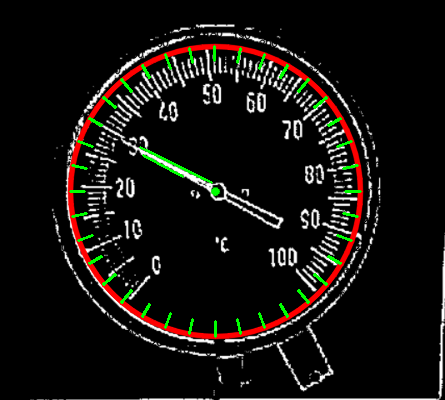
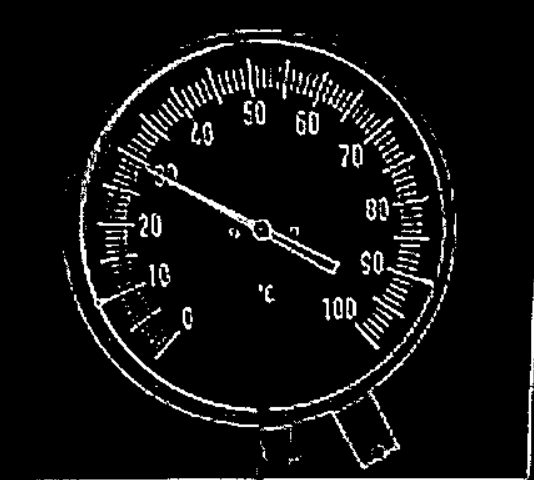
update

diff --git a/templates/index.html b/templates/index.html
@@ -134,7 +134,7 @@
         <div class='result_title'><b>Kết quả nhận diện</b></div>
         <div class='result_id'>{{ msg }}</div>
         {% if res != 0 %}
-        <div class='result_id'>Nhiệt độ: <span class='result_id_number'>{{ res }} </span></div>
+        <div class='result_id'>Nhiệt độ: <span class='result_id_number'>{{ res }} +- 2</span></div>
         {% endif %}
         {% if user_image %}
         <img style="max-width:560px; border-radius:1rem" src="{{ url_for('static', filename=user_image) }}?{{ rand }}"

diff --git a/detect.py b/detect.py
@@ -4,49 +4,41 @@ import matplotlib.pyplot as plt
 import filter
 
 # The Specifications of clock
-min_angle = 39
+min_angle = 38
 max_angle = 316
 min_value = 0
 max_value = 100                     
 
-def determine_avg_circles(circles, b):
-    avg_x=0
-    avg_y=0
-    avg_r=0
-    for i in range(b):
-        #optional - average for multiple circles (can happen when a gauge is at a slight angle)
-        avg_x = avg_x + circles[0][i][0]
-        avg_y = avg_y + circles[0][i][1]
-        avg_r = avg_r + circles[0][i][2]
-    avg_x = int(avg_x/(b))
-    avg_y = int(avg_y/(b))
-    avg_r = int(avg_r/(b))
-    return avg_x, avg_y, avg_r
+def determine_avg_circles(circles):
+    return np.mean(circles, axis=1, dtype=np.int32).reshape((3,))
 
 def compute_distance(x1, y1, x2, y2):
     return np.sqrt((x2 - x1)**2 + (y2 - y1)**2)
 
-def calibrate_gauge(path):
-    clock = cv.imread(path)
-    height, width = clock.shape[:2]
+def calibrate_gauge(image):
+    height, width = image.shape[:2]
+
+    residual = int((width - height) / 2) if width > height else 0
+    image = image[:, residual:width-residual] # crop image to make width and height equal
+
+    height, width = image.shape[:2]
+    
     ratio = 400/height
     height, width = int(height*ratio), int(width*ratio)
-    clock = cv.resize(clock, (width, height))
+    image = cv.resize(image, (width, height))
 
-    img = filter.implement_filter(clock, 5)
-    cv.imwrite('result_image/filter.png', img)
+    img = filter.implement_filter(image, 5)
 
-    circles = cv.HoughCircles(img,cv.HOUGH_GRADIENT, 1, 20, param1=100, param2=50, minRadius=int(height*0.35), maxRadius=int(height*0.5))
+    circles = cv.HoughCircles(img,cv.HOUGH_GRADIENT, 1, 35, param2=35, minRadius=int(height*0.35), maxRadius=int(height*0.5))
     if isinstance(circles, type(None)):
         return
 
     circles = np.uint16(np.around(circles))
-    a, b, c = circles.shape
-    x, y, r = determine_avg_circles(circles, b)
+    x, y, r = determine_avg_circles(circles)
 
     # draw center and circle
-    cv.circle(clock, (x, y), r, (0, 0, 255), 3, cv.LINE_AA)  # draw circle
-    cv.circle(clock, (x, y), 2, (0, 255, 0), 3, cv.LINE_AA)  # draw center of circle
+    cv.circle(image, (x, y), r, (0, 0, 255), 3, cv.LINE_AA)  # draw circle
+    cv.circle(image, (x, y), 2, (0, 255, 0), 3, cv.LINE_AA)  # draw center of circle
 
 
     separation = 10.0 #in degrees
@@ -73,21 +65,22 @@ def calibrate_gauge(path):
 
     #add the lines and labels to the image
     for i in range(0,interval):
-        cv.line(clock, (int(p1[i][0]), int(p1[i][1])), (int(p2[i][0]), int(p2[i][1])),(0, 255, 0), 2)
-        cv.putText(clock, '%s' %(int(i*separation)), (int(p_text[i][0]), int(p_text[i][1])), cv.FONT_HERSHEY_SIMPLEX, 0.3,(0,0,0),1,cv.LINE_AA)
+        cv.line(image, (int(p1[i][0]), int(p1[i][1])), (int(p2[i][0]), int(p2[i][1])),(0, 255, 0), 2)
+        cv.putText(image, '%s' %(int(i*separation)), (int(p_text[i][0]), int(p_text[i][1])), cv.FONT_HERSHEY_SIMPLEX, 0.3,(0,0,0),1,cv.LINE_AA)
 
-    # plt.imshow(clock)
-    # plt.show()
+    return x, y, r, image
 
-    return x, y, r, clock
+def get_current_value(image, circle, min_angle, max_angle, min_value, max_value, x, y, r):
+    height, width = image.shape[:2]
 
-def get_current_value(path, clock, min_angle, max_angle, min_value, max_value, x, y, r):
-    img = cv.imread(path)
+    residual = int((width - height) / 2) if width > height else 0
+    image = image[:, residual:width-residual] # crop image to make width and height equal
 
-    height, width = img.shape[:2]
+    height, width = image.shape[:2]
+
     ratio = 400/height
     height, width = int(height*ratio), int(width*ratio)
-    img = cv.resize(img, (width, height))
+    img = cv.resize(image, (width, height))
 
     dst = filter.implement_filter(img, 5)
 
@@ -111,7 +104,6 @@ def get_current_value(path, clock, min_angle, max_angle, min_value, max_value, x
                 diff1, diff2 = diff2, diff1
                 
             if (((diff1<diff1UpperBound*r) and (diff1>diff1LowerBound*r) and (diff2<diff2UpperBound*r)) and (diff2>diff2LowerBound*r)):
-                # add to final list
                 final_line_list.append([x1, y1, x2, y2])
                 
     res = []
@@ -128,14 +120,14 @@ def get_current_value(path, clock, min_angle, max_angle, min_value, max_value, x
         
         degree = np.arctan(np.divide(float(y_angle), float(x_angle)))
         degree = np.rad2deg(degree)
-        final_angle = 0
+
         if x_angle > 0 and y_angle > 0:  #in quadrant I
             final_angle = float(270 - degree)
-        if x_angle < 0 and y_angle > 0:  #in quadrant II
+        elif x_angle < 0 and y_angle > 0:  #in quadrant II
             final_angle = float(90 - degree)
-        if x_angle < 0 and y_angle < 0:  #in quadrant III
+        elif x_angle < 0 and y_angle < 0:  #in quadrant III
             final_angle = float(90 - degree)
-        if x_angle > 0 and y_angle < 0:  #in quadrant IV
+        elif x_angle > 0 and y_angle < 0:  #in quadrant IV
             final_angle = float(270 - degree)
         
         value = ((max_angle-final_angle)/(max_angle-min_angle)) * min_value + ((final_angle-min_angle)/(max_angle-min_angle)) * max_value
@@ -143,15 +135,16 @@ def get_current_value(path, clock, min_angle, max_angle, min_value, max_value, x
         res.append(value)
 
     for x1, y1, x2, y2 in final_line_list:
-        cv.line(clock, (x1, y1), (x2, y2),(0, 255, 0), 2)
+        cv.line(circle, (x1, y1), (x2, y2),(0, 255, 0), 2)
     
-    cv.imwrite('result_image/detected.png', clock)
+    cv.imwrite('result_image/detected.png', circle)
     
-    return np.array(res).mean(), clock
+    return np.array(res).mean(), circle
 
 if __name__ == '__main__':
-    x, y, r, circle = calibrate_gauge('test_image/test5.png')
-    res, img = get_current_value('test_image/test5.png', circle, min_angle, max_angle, min_value, max_value, x, y, r)
+    image = cv.imread('test_image/test4.png')
+    x, y, r, circle = calibrate_gauge(image)
+    res, img = get_current_value(image, circle, min_angle, max_angle, min_value, max_value, x, y, r)
     print(res)
 
 

diff --git a/my_api.py b/my_api.py
@@ -5,6 +5,8 @@ import cv2 as cv
 import os
 from random import random
 # import core
+# import serial
+import camera
 import detect
 
 # Initialize back end server
@@ -20,34 +22,41 @@ min_angle = 20
 max_angle = 344
 min_value = 0
 max_value = 150
+loop = 8
+url = "http://192.168.1.5:8080/shot.jpg"
 
 @app.route('/', methods=['POST', 'GET'])
 @cross_origin(origin='*')
 def detect_temperature():
-    if request.method == "POST":
-        try:
-            image = request.files['file']
-            if image:
-                # Lưu file
-                path_to_save = os.path.join(app.config['UPLOAD_FOLDER'], image.filename)
-                print("Save = ", path_to_save)
-                image.save(path_to_save)
+    # if request.method == "POST":
+    try:
+        # image = request.files['file']
+        image = camera.get_image(url, loop)
+        loop += 1
+        if isinstance(image, type(None)):
+        # if 1:
+            # Lưu file
+            # path_to_save = os.path.join(app.config['UPLOAD_FOLDER'], image.filename)
+            path_to_save = os.path.join(app.config['UPLOAD_FOLDER'], f'test{loop}.png')
 
-                x, y, r, clock = detect.calibrate_gauge(path_to_save)
+            print("Save = ", path_to_save)
+            # image.save(path_to_save)
 
-                res, img = detect.get_current_value(path_to_save, clock, min_angle, max_angle, min_value, max_value, x, y, r)
+            x, y, r, circle = detect.calibrate_gauge(image)
 
-                cv.imwrite(path_to_save, img)
-                return render_template('index.html', user_image=image.filename, rand=str(random()), msg='Success', res=res)
-            else:
-                # Nếu không có file thì yêu cầu tải file
-                return render_template('index.html', msg='Hãy chọn file để tải lên')
-        except:
-            print('Image format is wrong')
+            res, img = detect.get_current_value(image, circle, min_angle, max_angle, min_value, max_value, x, y, r)
+
+            cv.imwrite(path_to_save, img)
+            # return render_template('index.html', user_image=image.filename, rand=str(random()), msg='Success', res=res)
+            return render_template('index.html', user_image=f'test{loop}.png', rand=str(random()), msg='Success', res=res)
+        else:
+            # Nếu không có file thì yêu cầu tải file
             return render_template('index.html', msg='Không nhận diện được nhiệt độ')
+    except:
+        return render_template('index.html', msg='Không kết nối được với camera')
 
-    else:
-        return render_template('index.html')
+    # else:
+    #     return render_template('index.html')
 
 # Start backend
 if __name__ == '__main__':

diff --git a/camera.py b/camera.py
@@ -2,14 +2,14 @@
 import requests
 import cv2
 import numpy as np
-import matplotlib.pyplot as plt
+import random as rd
 
 # Replace the below URL with your own. Make sure to add "/shot.jpg" at last.
 url = "http://192.168.1.5:8080/shot.jpg"
 
-img_resp = requests.get(url)
-img_arr = np.array(bytearray(img_resp.content), dtype=np.uint8)
-img = cv2.imdecode(img_arr, -1)
-cv2.imwrite('test_image/test.png', img)
-plt.imshow(img)
-plt.show()
+def get_frame(url, loop):
+    img_resp = requests.get(url)
+    img_arr = np.array(bytearray(img_resp.content), dtype=np.uint8)
+    img = cv2.imdecode(img_arr, -1)
+    cv2.imwrite(f'test_image/test{loop}.png', img)
+    return img

diff --git a/filter.py b/filter.py
@@ -3,7 +3,8 @@ import numpy as np
 import matplotlib.pyplot as plt
 
 def implement_filter(image, n):
-    image = cv2.cvtColor(image, cv2.COLOR_BGR2GRAY)
+    if len(image.shape) == 3:
+        image = cv2.cvtColor(image, cv2.COLOR_BGR2GRAY)
     kernel_lap = np.array([[0, 1, 0],
                            [1, -4, 1],
                            [0, 1, 0]])
